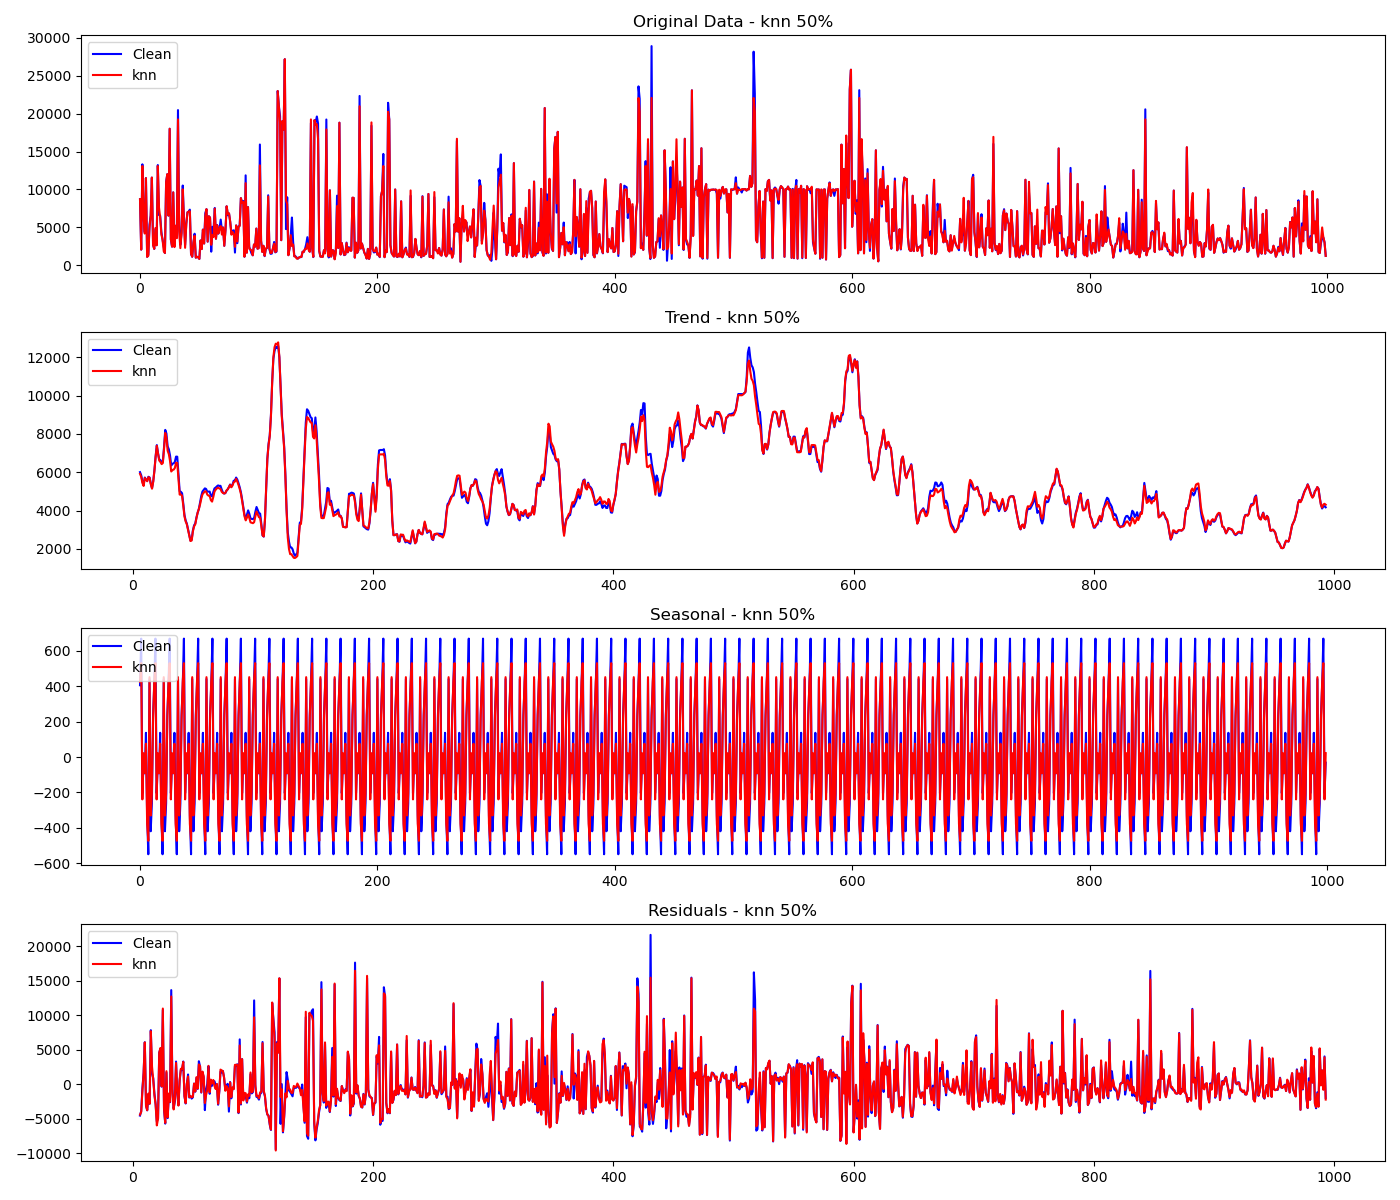
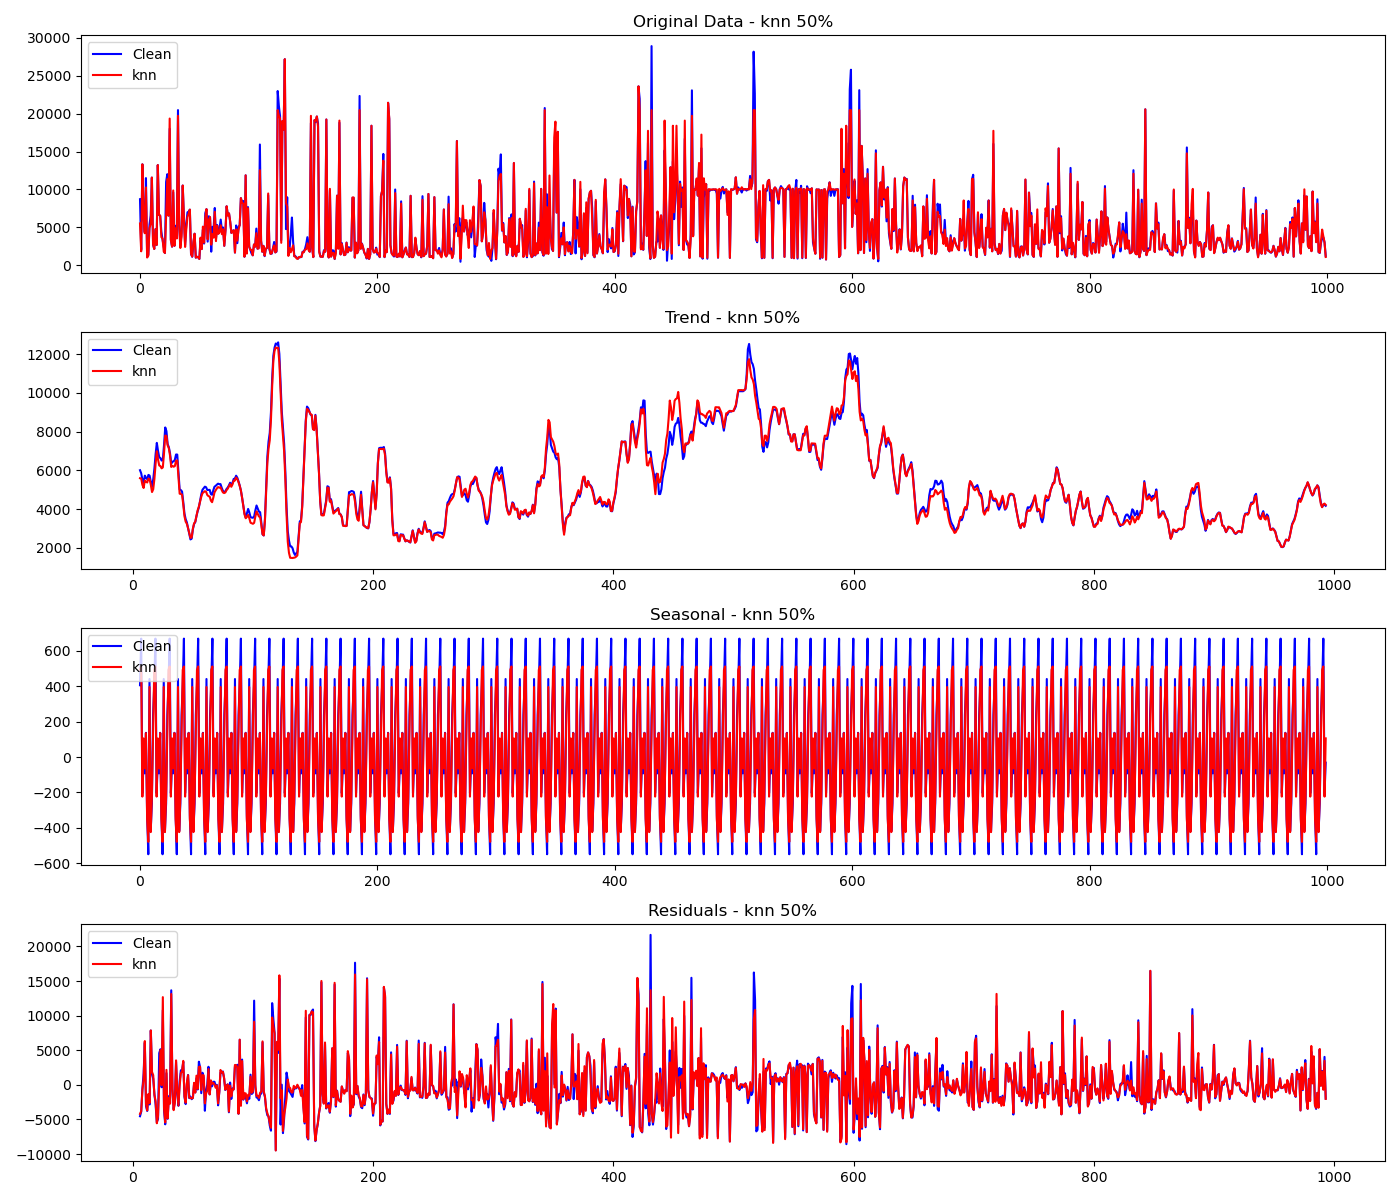
在完整的填补算法上得到时序分解结果

diff --git a/M4-monthly/1000records/pict_decompose.py b/M4-monthly/1000records/pict_decompose.py
@@ -9,23 +9,23 @@ model_names = ['mean','median', 'knn', 'hdi', 'mice', 'iim', 'si', 'mfi', 'rando
 percentages = [10, 30, 50, 70, 90]
 csv_files = [f'dirty-{model}-{p}.csv' for model in model_names for p in percentages]
 
-save_path='./decomposition-200/'
+save_path='./decomposition/'
 if not os.path.exists(save_path):
     os.makedirs(save_path)
 
-save_pic_path='./decomposition-200/pic/'
+save_pic_path='./decomposition/pic/'
 if not os.path.exists(save_pic_path):
     os.makedirs(save_pic_path)
 
 # 读取clean数据
 df_clean = pd.read_csv("clean.csv")
-df_clean = df_clean.head(200)
-#df_clean = df_clean
+#df_clean = df_clean.head(200)
+df_clean = df_clean
 data_clean = df_clean["V2"]
 
 # 读取所有dirty数据
-dfs_dirty = {file: pd.read_csv(os.path.join(f"null-{file.split('-')[1]}",file)).head(200) for file in csv_files}
-#dfs_dirty = {file: pd.read_csv(file) for file in csv_files}
+#dfs_dirty = {file: pd.read_csv(os.path.join(f"null-{file.split('-')[1]}",file)).head(200) for file in csv_files}
+dfs_dirty = {file: pd.read_csv(os.path.join(f"null-{file.split('-')[1]}",file)) for file in csv_files}
 data_dirty = {file: df["V2"] for file, df in dfs_dirty.items()}
 
 # 时序分解
@@ -79,7 +79,8 @@ for file, decomp in decompositions.items():
 
 # 保存结果到CSV文件
 results_df = pd.DataFrame(results)
-results_df.to_csv(os.path.join(save_path,"decomposition_200_results.csv"), index=False)
+#results_df.to_csv(os.path.join(save_path,"decomposition_200_results.csv"), index=False)
+results_df.to_csv(os.path.join(save_path,"decomposition_results.csv"), index=False)
 
 # 打印结果
 print("Results saved to 'decomposition_results.csv'")
@@ -124,5 +125,6 @@ for model in model_names:
     plt.legend(loc='upper left')
 
     plt.tight_layout()
-    plt.savefig(os.path.join(save_pic_path,f'decomposition_200_{model}_50.png'))
+    #plt.savefig(os.path.join(save_pic_path,f'decomposition_200_{model}_50.png'))
+    plt.savefig(os.path.join(save_pic_path, f'decomposition_{model}_50.png'))
     plt.show()

diff --git a/M4-quarterly/1000records/pict_decompose.py b/M4-quarterly/1000records/pict_decompose.py
@@ -9,23 +9,23 @@ model_names = ['mean','median', 'knn', 'hdi', 'mice', 'iim', 'si', 'mfi', 'rando
 percentages = [10, 30, 50, 70, 90]
 csv_files = [f'dirty-{model}-{p}.csv' for model in model_names for p in percentages]
 
-save_path='./decomposition-200/'
+save_path='./decomposition/'
 if not os.path.exists(save_path):
     os.makedirs(save_path)
 
-save_pic_path='./decomposition-200/pic/'
+save_pic_path='./decomposition/pic/'
 if not os.path.exists(save_pic_path):
     os.makedirs(save_pic_path)
 
 # 读取clean数据
 df_clean = pd.read_csv("clean.csv")
-df_clean = df_clean.head(200)
-#df_clean = df_clean
+#df_clean = df_clean.head(200)
+df_clean = df_clean
 data_clean = df_clean["V2"]
 
 # 读取所有dirty数据
-dfs_dirty = {file: pd.read_csv(os.path.join(f"null-{file.split('-')[1]}",file)).head(200) for file in csv_files}
-#dfs_dirty = {file: pd.read_csv(file) for file in csv_files}
+#dfs_dirty = {file: pd.read_csv(os.path.join(f"null-{file.split('-')[1]}",file)).head(200) for file in csv_files}
+dfs_dirty = {file: pd.read_csv(os.path.join(f"null-{file.split('-')[1]}",file)) for file in csv_files}
 data_dirty = {file: df["V2"] for file, df in dfs_dirty.items()}
 
 # 时序分解
@@ -79,7 +79,8 @@ for file, decomp in decompositions.items():
 
 # 保存结果到CSV文件
 results_df = pd.DataFrame(results)
-results_df.to_csv(os.path.join(save_path,"decomposition_200_results.csv"), index=False)
+#results_df.to_csv(os.path.join(save_path,"decomposition_200_results.csv"), index=False)
+results_df.to_csv(os.path.join(save_path,"decomposition_results.csv"), index=False)
 
 # 打印结果
 print("Results saved to 'decomposition_results.csv'")
@@ -124,5 +125,6 @@ for model in model_names:
     plt.legend(loc='upper left')
 
     plt.tight_layout()
-    plt.savefig(os.path.join(save_pic_path,f'decomposition_200_{model}_50.png'))
+    #plt.savefig(os.path.join(save_pic_path,f'decomposition_200_{model}_50.png'))
+    plt.savefig(os.path.join(save_pic_path, f'decomposition_{model}_50.png'))
     plt.show()

diff --git a/M4-yearly/1000records/pict_decompose.py b/M4-yearly/1000records/pict_decompose.py
@@ -9,23 +9,23 @@ model_names = ['mean','median', 'knn', 'hdi', 'mice', 'iim', 'si', 'mfi', 'rando
 percentages = [10, 30, 50, 70, 90]
 csv_files = [f'dirty-{model}-{p}.csv' for model in model_names for p in percentages]
 
-save_path='./decomposition-200/'
+save_path='./decomposition/'
 if not os.path.exists(save_path):
     os.makedirs(save_path)
 
-save_pic_path='./decomposition-200/pic/'
+save_pic_path='./decomposition/pic/'
 if not os.path.exists(save_pic_path):
     os.makedirs(save_pic_path)
 
 # 读取clean数据
 df_clean = pd.read_csv("clean.csv")
-df_clean = df_clean.head(200)
-#df_clean = df_clean
+#df_clean = df_clean.head(200)
+df_clean = df_clean
 data_clean = df_clean["V2"]
 
 # 读取所有dirty数据
-dfs_dirty = {file: pd.read_csv(os.path.join(f"null-{file.split('-')[1]}",file)).head(200) for file in csv_files}
-#dfs_dirty = {file: pd.read_csv(file) for file in csv_files}
+#dfs_dirty = {file: pd.read_csv(os.path.join(f"null-{file.split('-')[1]}",file)).head(200) for file in csv_files}
+dfs_dirty = {file: pd.read_csv(os.path.join(f"null-{file.split('-')[1]}",file)) for file in csv_files}
 data_dirty = {file: df["V2"] for file, df in dfs_dirty.items()}
 
 # 时序分解
@@ -79,7 +79,8 @@ for file, decomp in decompositions.items():
 
 # 保存结果到CSV文件
 results_df = pd.DataFrame(results)
-results_df.to_csv(os.path.join(save_path,"decomposition_200_results.csv"), index=False)
+#results_df.to_csv(os.path.join(save_path,"decomposition_200_results.csv"), index=False)
+results_df.to_csv(os.path.join(save_path,"decomposition_results.csv"), index=False)
 
 # 打印结果
 print("Results saved to 'decomposition_results.csv'")
@@ -124,5 +125,6 @@ for model in model_names:
     plt.legend(loc='upper left')
 
     plt.tight_layout()
-    plt.savefig(os.path.join(save_pic_path,f'decomposition_200_{model}_50.png'))
+    #plt.savefig(os.path.join(save_pic_path,f'decomposition_200_{model}_50.png'))
+    plt.savefig(os.path.join(save_pic_path, f'decomposition_{model}_50.png'))
     plt.show()
